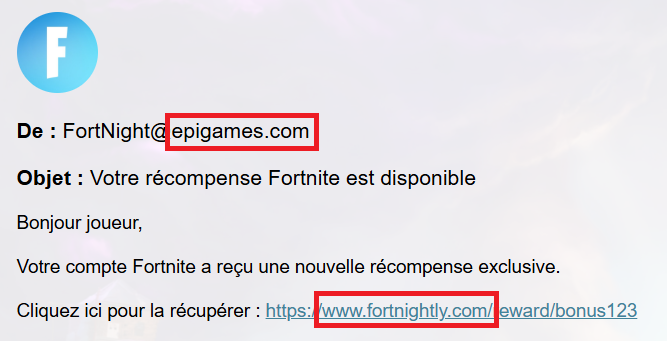
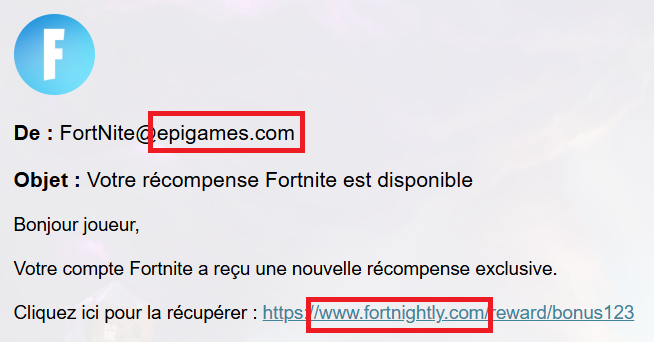
insertion du rapport de partie dans le jeu

diff --git a/src/html/rapport.html b/src/html/rapport.html
@@ -6,7 +6,8 @@
     <link rel="stylesheet" href="../css/rapport.css">
 </head>
 <body>
-<h1>Rapport de partie</h1>
+<h1>Erreurs faite dans la partie</h1>
+<img src="../images/next-icon.png" alt="" class="last-icon">
 <img src="../images/next-icon.png" alt="" class="next-icon">
 <main>
     <div class="image-mails">
@@ -14,33 +15,43 @@
         <img src="" alt="" class="img-pop-up">
     </div>
     <div class="text-rapport">
+        <h2 class="supprimer-mail">Vous avez ouvert le lien de ce mail</h2>
         <h2 class="titre-rapport"></h2>
         <div class="text"></div>
     </div>
 </main>
 
+<button class="retour-menu-principal" onclick="window.open('MenuDemarrage.html', '_self')">Menu Principal</button>
+
 <script>
-    //let rapports = JSON.parse(sessionStorage.getItem("rapports"));
+
     let rapports = []
     let currentMailIndex = 0
 
     let titreRapport = document.querySelector(".titre-rapport");
     let textRapport = document.querySelector(".text")
     let imgMailElement = document.querySelector(".img-mail");
-    let imgPopUpElement = document.querySelector(".img-pop-up")
+    let imgPopUpElement = document.querySelector("img.img-pop-up")
 
     function afficherRapport() {
+
+        if (currentMailIndex >= rapports.length - 1) {
+            document.querySelector(".next-icon").style.display = "none";
+        } else {
+            document.querySelector(".next-icon").style.display = "inline-block";
+        }
+        if (currentMailIndex === 0) {
+            document.querySelector(".last-icon").style.display = "none";
+        } else {
+            document.querySelector(".last-icon").style.display = "inline-block";
+        }
         let rapport = rapports[currentMailIndex]
 
         titreRapport.innerText = rapport.realName
         let text = rapport.text.replace(/\n/g, "<br>");
         textRapport.innerHTML = text
         imgMailElement.src = "../images/screen-shot-mails/" + rapport.imgMail
-        imgPopUpElement.src = rapport.imgLienPopUp
-
-        if (currentMailIndex === rapports.length - 1) {
-            document.querySelector(".next-icon").style.display = "none";
-        }
+        imgPopUpElement.src = "../images/screen-shot-mails/" + rapport.imgLienPopUp
     }
 
     document.addEventListener('DOMContentLoaded', () => {
@@ -49,10 +60,16 @@
         console.log("test")
         afficherRapport()
         console.log("Rapport de partie")
+
     })
 
     document.querySelector(".next-icon").addEventListener("click", () => {
         currentMailIndex++
+        afficherRapport()
+    })
+
+    document.querySelector(".last-icon").addEventListener("click", () => {
+        currentMailIndex--
         afficherRapport()
     })
 

diff --git a/src/css/rapport.css b/src/css/rapport.css
@@ -1,6 +1,9 @@
 body {
     font-family: Sora, sans-serif;
     margin: 0;
+    text-align: center;
+    background-color: #000;
+    color: white;
 }
 h1 {
     text-align: center;
@@ -12,22 +15,61 @@ h1 {
 
 }
 main {
-    margin: 0;
+    margin: 50px auto 0;
     display: flex;
-    justify-content: space-around;
+    justify-content: space-between;
+    background-color: #2d2d2d;
+    border-radius: 10px;
+    padding: 20px 20px;
+    max-width: 80vw;
+}
+.image-mails {
+    padding: 20px 20px 0;
 }
 img {
-    max-width: 600px;
+    max-width: 40vw;
     border-radius: 10px;
 }
 .text-rapport .text {
     max-width: 100%;
+    text-align: justify;
+}
+
+.text-rapport {
+    width: 40vw;
+}
+.last-icon {
+    cursor: pointer;
+    max-width: 50px;
+    position: fixed;
+    top: 50px;
+    left: 20px;
+    transform: rotate(180deg);
 }
 
 .next-icon {
     cursor: pointer;
-    max-width: 30px;
+    max-width: 50px;
     position: fixed;
     top: 50px;
     right: 20px;
+}
+
+.retour-menu-principal {
+    background-color: #345eeb;
+    color: white;
+    padding: 15px;
+    font-size: 1.5rem;
+    border-radius: 10px;
+    border: none;
+    cursor: pointer;
+    font-weight: bold;
+    margin: 30px auto;
+
+}
+.supprimer-mail {
+    color: red;
+}
+.retour-menu-principal:hover {
+    background-color: #2848b4;
 }

diff --git a/src/main.js b/src/main.js
@@ -47,6 +47,9 @@ function handleSuspectClick(e) {
             clearInterval(timerInterval);
             timerInterval = null;
         }
+        rapports.push(listMails[currentMailIndex].rapport)
+        sessionStorage.setItem("rapports", JSON.stringify(rapports))
+
         try { stopStressSound(); } catch (_) {}
         remainingTime = 0;
         sessionStorage.setItem("globalTimerFinished", "true");
@@ -943,7 +946,6 @@ function effacerMail() {
                 quetes[0].fini = true
 
             }
-
             if (quetes[0].points <= NBRE_DE_MAUVAIS_MAILS_A_SUPP) {
                 afficherReussiteQuete(0)
             }

diff --git a/src/html/menuFinPerdu.html b/src/html/menuFinPerdu.html
@@ -15,8 +15,7 @@
     <div id="perso-container" style="display: none;">
         <video id="perso-video" src="../vidéos/angry.mp4" autoplay muted playsinline width="400" height="400"></video>
     </div>
-    <button class="retour" onclick="sessionStorage.clear();window.location.href='MenuDemarrage.html'">Retour au menu
-    </button>
+    <button class="retour" onclick="window.location.href='rapport.html'">Rapport de partie</button>
 </div>
 <div class="glitch-overlay"></div>
 <script src="../main.js"></script>

diff --git a/src/html/menuFinGagner.html b/src/html/menuFinGagner.html
@@ -19,9 +19,7 @@
             <video id="perso-video" src="../vidéos/happy.mp4" autoplay muted playsinline width="400" height="400"></video>
         </div>
 
-        <button class="retour" onclick="sessionStorage.clear();window.location.href='MenuDemarrage.html'">Retour au
-            menu
-        </button>
+        <button class="retour" onclick="window.location.href='rapport.html'">Rapport de partie</button>
     </div>
 </div>
 

diff --git a/src/html/MenuDemarrage.html b/src/html/MenuDemarrage.html
@@ -18,6 +18,14 @@
     <button onclick="quitter()">Quitter</button>
 </div>
 
+<script>
+    document.addEventListener('DOMContentLoaded', () => {
+
+        sessionStorage.clear();
+        console.log("session storage cleared")
+    })
+</script>
 </body>
-<script src="../main.js"></script>
+<script src="../main.js">
+</script>
 </html>
